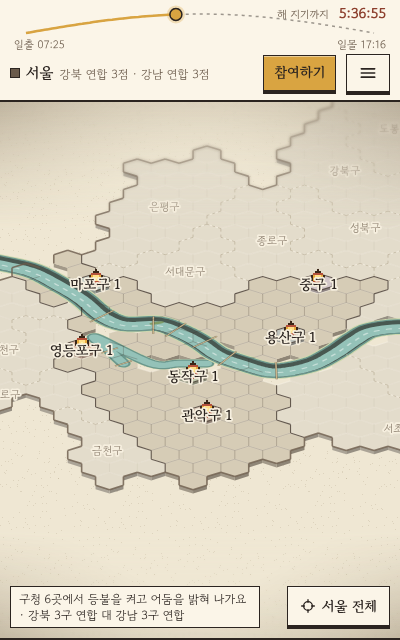
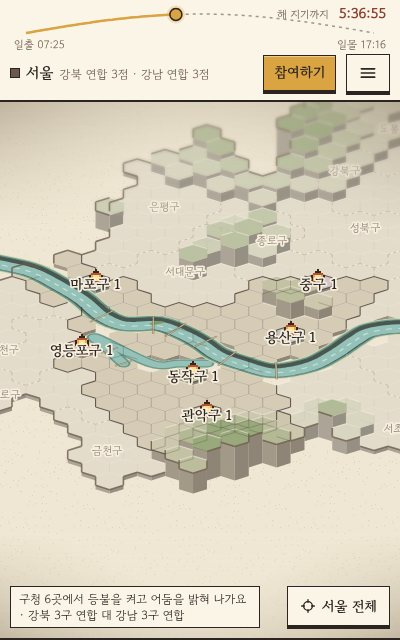
산으로 입체감: 북한산·남산·관악산 등 15곳이 솟는 HD-2D 디오라마 (#13)
* v3 규칙: 개척 → 접촉 → 쟁탈, 강북·강남 연합, 구청 시작, 여의도 섬, 등불 정령

- 시즌 시작은 모든 칸 어둠, 구청 6칸만 켜짐(빼앗기지 않고 밤에도 안 먹힘)
- 개척(settle): 연합 땅에 붙은 어둠 칸에 병력을 모아 불을 켠다. 20 + 5 × 구청 거리, 한강 다리 +10, 샛강 다리 +45
- 공격은 다른 연합 칸만, 증원은 같은 연합 어디든. 연결 보너스·시야도 연합 단위
- 여의도는 샛강으로 둘러싼 섬, 다리 8개. 랜드마크 7곳에 효과(생산·시간·밤 저항·시야, 같은 종류 최대 15%)
- 밤 침식은 어둠(미개척)과 맞닿은 개척지 가장자리. 응시는 고유 사람만
- 시즌 점수 = 등불 칸 + 랜드마크 × 3, 매일 오늘의 성적(밝힌 칸, 지킨 비율)
- 등불 정령(보조 플레이어): 사람이 적을 때 연합마다 최대 6
- 온보딩 베타 연합 카드, 연합별 구 고르기
- scripts/sim.mjs 밸런스 시뮬레이터와 sim-report.json, 테스트 추가

Claude-Session: https://claude.ai/code/session_014wdP5uRRBQnbFpnLkDpvCk

* 지도 북쪽 위로 돌리기, 처음부터 헥스 보이기, 글씨체 통일, 비로그인 온보딩, 하단 바 없애기

- 지도 투영을 북쪽이 위(한강이 서→동 가로)로. map.js 맨 위 A·B·C·D 행렬 하나로 정리
- 처음 배율에서도 칸(헥스) 결이 보이게 얇은 선을 항상 그림(봉인된 구 안도 옅게)
- 시간 막대 남은 시간·병력·패널 숫자를 본문 글꼴로(픽셀 글꼴 제거)
- 로그인이 안 돼 있으면 들어올 때마다 온보딩부터
- 폰 하단 버튼 줄 삭제: 칸을 누르면 시트에서 개척·진군·증원·깃발, 메뉴는 헤더 ≡(공격 오면 빨간 점),
  낮에는 안내 칩을 누르면 개척하기 좋은 칸으로
- 폰 첫 배율 조금 넓게, 헤더 점수 줄 짧게

Claude-Session: https://claude.ai/code/session_014wdP5uRRBQnbFpnLkDpvCk

* HD-2D 쿼터뷰로 되돌리기, 칸 선택 중 다른 곳을 누르면 선택 취소

- 북쪽 위(한강 가로) 방향은 그대로 두고, 남쪽에서 비스듬히 내려다보는 쿼터뷰로(세로 0.46)
- 땅은 두께 있는 판: 강·바깥 쪽 절벽, 불 켜진 칸은 솟고 옆면이 보임, 윗면 북쪽 가장자리 빛 테두리
- 한강에 강둑 벽(북쪽 둑에 벽면)
- 화면 위아래 틸트 시프트 흐림과 비네트(.tiltshift, 색은 CSS 변수)
- 칸 시트가 열린 채 다른 곳을 누르면 다른 칸으로 바뀌지 않고 선택만 취소

Claude-Session: https://claude.ai/code/session_014wdP5uRRBQnbFpnLkDpvCk

* 산으로 입체감: 북한산·남산·관악산 등 15곳의 칸이 계단처럼 솟는 HD-2D 디오라마

- build_map.mjs에 산 목록(PEAKS) → map.json peaks(칸 번호·시드는 그대로)
[…]

diff --git a/web/js/map.js b/web/js/map.js
@@ -1,7 +1,7 @@
 // 지도 그리기(Canvas 2D) — 서울 전역 쿼터뷰.
 // 평면 좌표(km, map.json의 x = 동쪽, y = 남쪽)를 북쪽이 위인 익숙한 지도 방향으로 그린다.
 // HD-2D 쿼터뷰: 남쪽에서 북쪽을 비스듬히 내려다본다. X = x·0.85, Y = y·0.46(세로를 눌러 기울임). 한강이 서→동으로 가로로 흐른다.
-// 땅은 두께가 있는 판(바깥·강 쪽 절벽), 불 켜진 칸은 살짝 솟는다(lift). 화면 위아래 흐림·비네트는 styles.css .tiltshift.
+// 땅은 두께가 있는 판(바깥·강 쪽 절벽). 산(map.json peaks: 북한산·남산·관악산 등)은 칸이 계단처럼 솟고, 불 켜진 칸은 그 위로 조금 더 솟는다(lift). 화면 위아래 흐림·비네트는 styles.css .tiltshift.
 // 보이는 순서(먼저 읽혀야 할 것부터): 서울 모양 → 구(이름) → 점령 상태(색·경계) → 움직임(진군·경고) → 칸 이름(확대했을 때만)
 // 그리는 순서: 바탕 → 칸 색 → 한강(벡터) → 경계선 → 유닛 → 안개 → 경고 테두리·이름·알약
 // 색은 styles.css의 CSS 변수(--t-*, --tile-*, --gu-*, --sealed*, --label-*, --pill-*, --fog*)에서 읽는다.
@@ -14,16 +14,18 @@ const LOW = 4;
 const A = 0.85, B = 0, C = 0, D = 0.46, DET = A * D - B * C;
 const fx = (x, y) => A * x + B * y, fy = (x, y) => C * x + D * y;
 const inv = (X, Y) => ({ x: (D * X - B * Y) / DET, y: (A * Y - C * X) / DET });
-const depth = (x, y) => fy(x, y); // 그리는 순서(화면 아래쪽일수록 나중)
+const depth = (x, y) => fy(x, y);
+const ELEV = 2.2; // 산 높이를 화면 px로 바꾸는 배율(√(높이km × 0.35) × cam.s × 2.2, 세로를 과장) // 그리는 순서(화면 아래쪽일수록 나중)
 const CORNER = [...Array(6)].map((_, i) => { const a = Math.PI / 180 * (60 * i - 30); return [Math.cos(a), Math.sin(a)]; });
 // 이웃 방향(rules.js DIRS 순서) → 그 쪽 변의 꼭짓점 번호
 const SOUTH = [[0, 1], [-1, 1]]; // 화면 아래쪽을 보는 두 변(옆면이 보이는 쪽)
 const EDGE_OF_DIR = { '1,0': [0, 1], '-1,0': [3, 4], '0,1': [1, 2], '0,-1': [4, 5], '1,-1': [5, 0], '-1,1': [2, 3] };
-const VARS = ['--t-hi', '--t-land', '--t-river', '--t-river-edge', '--t-wave', '--t-park', '--t-ink', '--t-bridge', '--t-bam', '--t-paper',
+const VARS = ['--t-hi', '--t-mount', '--t-land', '--t-river', '--t-river-edge', '--t-wave', '--t-park', '--t-ink', '--t-bridge', '--t-bam', '--t-paper',
   '--tile-line', '--tile-a', '--tile-ours', '--tile-dark', '--tile-gray', '--tile-gray-line', '--tile-neutral', '--sealed', '--sealed-line', '--outline',
   '--ours-dark', '--attack', '--erode', '--label-bg', '--label-fg', '--label-muted', '--label-shadow', '--pill-enemy', '--pill-ours', '--pill-fg',
   '--fog', '--fog-a', '--cloud-line', '--cloud-fill', '--eyes', '--glow', '--fg', '--ours', '--enemy'];
 
+function inPoly(x, y, pts) { let on = false; for (let i = 0, j = pts.length - 1; i < pts.length; j = i++) { const a = pts[i], b = pts[j]; if ((a.y > y) !== (b.y > y) && x < (b.x - a.x) * (y - a.y) / (b.y - a.y) + a.x) on = !on; } return on; }
 // 색 a를 바탕색 b와 비율 t로 섞은 불투명 색(반투명 칸이 겹쳐 생기는 진한 이음매를 없앤다)
 function mix(a, b, t) { const x = hex2rgb(a), y = hex2rgb(b); return `rgb(${x.map((v, i) => Math.round(v * t + y[i] * (1 - t))).join(',')})`; }
 function hex2rgb(h) { const m = /^#?([0-9a-f]{6})$/i.exec((h || '').trim()); const n = m ? parseInt(m[1], 16) : 0; return [n >> 16, (n >> 8) & 255, n & 255]; }
@@ -81,11 +83,25 @@ export class MapView {
     return { x: this.cam.x + p.x, y: this.cam.y + p.y };
   }
   // 불 켜진 칸이 솟는 높이(px). 점령 상태가 높이로도 읽히게
-  lift(c) { return !c || c.kind === 'river' || c.sealed || !c.owner ? 0 : Math.max(3, Math.min(12, this.cam.s * 0.08)); }
+  // 칸 윗면 높이(px) = 지형(산, 세로 과장 약 3.5배) + 불 켜진 칸이 솟는 만큼
+  lift(c) {
+    if (!c || c.kind === 'river') return 0;
+    const own = !c.sealed && c.owner ? Math.max(3, Math.min(12, this.cam.s * 0.08)) : 0;
+    return Math.sqrt((c.elev || 0) * 0.35) * this.cam.s * ELEV + own; // 제곱근: 낮은 남산은 도드라지게, 높은 북한산은 덜 치솟게
+  }
   slab() { return Math.max(3, Math.min(16, this.cam.s * 0.13)); } // 땅 판 두께(px)
   center(c) { const p = this.project(c.x, c.y); p.y -= this.lift(c); return p; }
+  // 누른 곳의 칸: 솟은 칸은 화면에서 위로 올라가 있으므로, 솟은 윗면 안에 점이 드는 칸 중 가장 앞(남쪽) 칸
   tileAt(X, Y) {
-    const p = this.unproject(X, Y), h = pixelToHex(p.x, p.y, this.idx.size);
+    const p = this.unproject(X, Y), s = this.cam.s, reach = (0.6 * s * ELEV + 14) / (s * D) + this.idx.size;
+    let best = null, bd = -1e9;
+    for (const c of this.tiles) {
+      if (Math.abs(c.x - p.x) > this.idx.size * 1.2 || c.y < p.y - this.idx.size * 1.2 || c.y > p.y + reach) continue;
+      const up = this.lift(c), pts = CORNER.map(([cx, cy]) => { const q = this.project(c.x + cx * this.idx.size, c.y + cy * this.idx.size); q.y -= up; return q; });
+      if (inPoly(X, Y, pts) && depth(c.x, c.y) > bd) { bd = depth(c.x, c.y); best = c; }
+    }
+    if (best) return best.id;
+    const h = pixelToHex(p.x, p.y, this.idx.size);
     return this.idx.byKey.get(key(h.q, h.r))?.id ?? null;
   }
   hexW() { return this.cam.s * this.idx.size * 1.9; }
@@ -265,6 +281,7 @@ export class MapView {
       const fill = c.sealed ? this.css('--sealed') : c.gray ? col('gray', this.css('--tile-gray'), 0.8) : !c.owner ? this.css('--tile-dark')
         : c.owner === gu ? col('ours', this.css('--tile-ours'), tileA + 0.22) : col(c.owner, this.css('--gu-' + c.owner), tileA + 0.1);
       const L = this.lift(c);
+      const mt = c.elev ? Math.round(Math.min(1, c.elev / 0.45) * (c.owner ? 3 : 7)) : 0; // 산 칸은 높을수록 산빛(초록)으로, 불 켜진 칸은 조금만
       for (const [dq, dr] of SOUTH) {
         const n = idx.byKey.get(key(c.q + dq, c.r + dr));
         const bottom = !n || n.kind === 'river' ? -T : this.lift(n);
@@ -275,7 +292,8 @@ export class MapView {
         g.fillStyle = ink; g.globalAlpha = dq === 0 ? 0.42 : 0.3; g.fill(); g.globalAlpha = 1; // 빛은 왼쪽 위에서: 오른쪽 아래 면이 더 어둡다
       }
       this.hexScreen(c, 1.02, L); g.fillStyle = fill; g.fill();
-      if (this.hexW() >= 22) { // 윗면 북쪽 두 변에 빛 테두리(빛은 북서쪽 위에서)
+      if (mt) { g.fillStyle = this.css('--t-mount'); g.globalAlpha = mt / 10; g.fill(); g.globalAlpha = 1; }
+      if (this.hexW() >= 22 || c.elev) { // 윗면 북쪽 두 변에 빛 테두리(빛은 북서쪽 위에서)
         const [a1, b1] = this.edge(c, 0, -1, L), [, b2] = this.edge(c, 1, -1, L);
         g.beginPath(); g.moveTo(a1.x, a1.y); g.lineTo(b1.x, b1.y); g.lineTo(b2.x, b2.y);
         g.strokeStyle = this.css('--t-hi'); g.globalAlpha = night ? 0.08 : 0.4; g.lineWidth = 1.2; g.stroke(); g.globalAlpha = 1;

diff --git a/web/styles.css b/web/styles.css
@@ -21,14 +21,14 @@
   --gu-mapo:#3e7c8c; --gu-yongsan:#4e6e8e; --gu-jung:#8d78ad; --gu-yeongdeungpo:#b5523b; --gu-dongjak:#5e8a5a; --gu-gwanak:#9a6a5e;
   --gu-mapo-dark:#2a5a66; --gu-yongsan-dark:#34506e; --gu-jung-dark:#5e4a7e; --gu-yeongdeungpo-dark:#8c3e2c; --gu-dongjak-dark:#3e6a3e; --gu-gwanak-dark:#6e463c;
   --label-bg:#f6efdf; --label-fg:#2b2420; --label-shadow:#2b2420; --pill-enemy:#c23a32; --pill-ours:#a87c2e; --pill-fg:#ffffff;
-  --t-hi:#fffaf0; --vignette:rgba(70, 50, 25, .28); --haze:rgba(239, 230, 210, .35);
+  --t-hi:#fffaf0; --t-mount:#7f9a64; --vignette:rgba(70, 50, 25, .28); --haze:rgba(239, 230, 210, .35);
   --fog:#efe6d2; --fog-a:.93; --cloud-line:#5a4636; --cloud-fill:#f6efdf; --map-bg:#efe6d2; --dusk:#d9773a;
   --serif:"Gowun Batang", "AppleMyungjo", serif;
   --sans:"Gowun Dodum", "Apple SD Gothic Neo", "Malgun Gothic", system-ui, sans-serif;
   color-scheme:light;
 }
 [data-theme="night"]{
-  --t-hi:#f3e6c8; --vignette:rgba(0, 0, 0, .55); --haze:rgba(15, 12, 20, .25);
+  --t-hi:#f3e6c8; --t-mount:#3c5236; --vignette:rgba(0, 0, 0, .55); --haze:rgba(15, 12, 20, .25);
   --bg:#0f0c14; --surface:#1a1420; --sunk:#120e18; --line:#8c7a5a; --fg:#e9dfc8; --muted:#a99c86;
   --accent:#ffb547; --ours:#ffb547; --ours-dark:#a87c2e; --on-ours:#1a1206; --enemy:#d0664c; --danger:#c23a32; --on-danger:#ffffff;
   --timer:#4fe3c1; --ok:#79b07a; --bad:#e0745a;

diff --git a/web/js/view.js b/web/js/view.js
@@ -8,7 +8,15 @@ export function indexMap(map) {
   for (const g of map.gu) gu.set(g.id, g);
   for (const t of map.tiles) { const c = { ...t, owner: null, defense: 0, gray: false, progress: {} }; byId.set(t.id, c); byKey.set(key(t.q, t.r), c); }
   for (const c of byId.values()) c.adj = neighbors(c.q, c.r).map(([q, r]) => byKey.get(key(q, r))?.id).filter(Boolean);
-  return { byId, byKey, gu, size: map.size, river: map.river, saetgang: map.saetgang || [], bridges: map.bridges || [], sprites: map.sprites || [], bamseom: map.bamseom || null };
+  const peaks = map.peaks || [];
+  for (const c of byId.values()) c.elev = c.kind === 'river' ? 0 : elevation(peaks, c.x, c.y);
+  return { byId, byKey, gu, size: map.size, river: map.river, saetgang: map.saetgang || [], bridges: map.bridges || [], sprites: map.sprites || [], bamseom: map.bamseom || null, peaks };
+}
+// 지형 높이(km, 화면 전용): 가장 가까운 산의 종 모양 높이. step 단위로 끊어 계단식 디오라마가 되게 한다
+export function elevation(peaks, x, y, step = 0.06) {
+  let h = 0;
+  for (const p of peaks || []) { const d = Math.hypot(x - p.at[0], y - p.at[1]) / p.r; h = Math.max(h, p.h * Math.exp(-d * d)); }
+  return h < step / 2 ? 0 : Math.round(h / step) * step;
 }
 export function applyTiles(idx, rows) {
   for (const [id, owner, defense, gray, progress] of rows || []) {

diff --git a/README.md b/README.md
@@ -53,7 +53,7 @@ web/                    정적 화면(빌드 없음)
   js/view.js            화면 규칙 순수 함수(칠 수 있는 칸, 출발 칸, 다가오는 공격, 순위, 문구)
   js/map.js             Canvas 쿼터뷰 지도(v2): 지형(저해상도 4배) → 칸 → 세운 물체(깊이 순) → 안개(베이어 디더링) → 이름표·알약.
                         HD-2D 쿼터뷰: 북쪽이 위(한강이 가로), 남쪽에서 비스듬히 내려다봄. X=x·0.85, Y=y·0.46(map.js 맨 위 A·B·C·D).
-                        땅은 두께 있는 판(절벽·강둑 벽), 불 켜진 칸은 솟음. 화면 위아래 흐림·비네트는 styles.css .tiltshift. 탭, 끌어서 진군, 끌어서 이동, 두 손가락 확대
+                        땅은 두께 있는 판(절벽·강둑 벽), 산 15곳(북한산·남산·관악산 등, map.json peaks)은 칸이 계단처럼 솟고 산빛, 불 켜진 칸은 더 솟음. 화면 위아래 흐림·비네트는 styles.css .tiltshift. 탭, 끌어서 진군, 끌어서 이동, 두 손가락 확대
   js/sprites.js         작은 도트(등불·눈·깃발)와 PNG 스프라이트 불러오기(실패하면 작은 도트로 대신)
   assets/units/         유닛 48×64(횃불꾼·등롱지기·도깨비불 × 우리/적)
   assets/landmarks/     쿼터뷰 랜드마크(63빌딩·파크원·더현대·IFC·국회의사당). 위치는 build_map.mjs SPRITES
